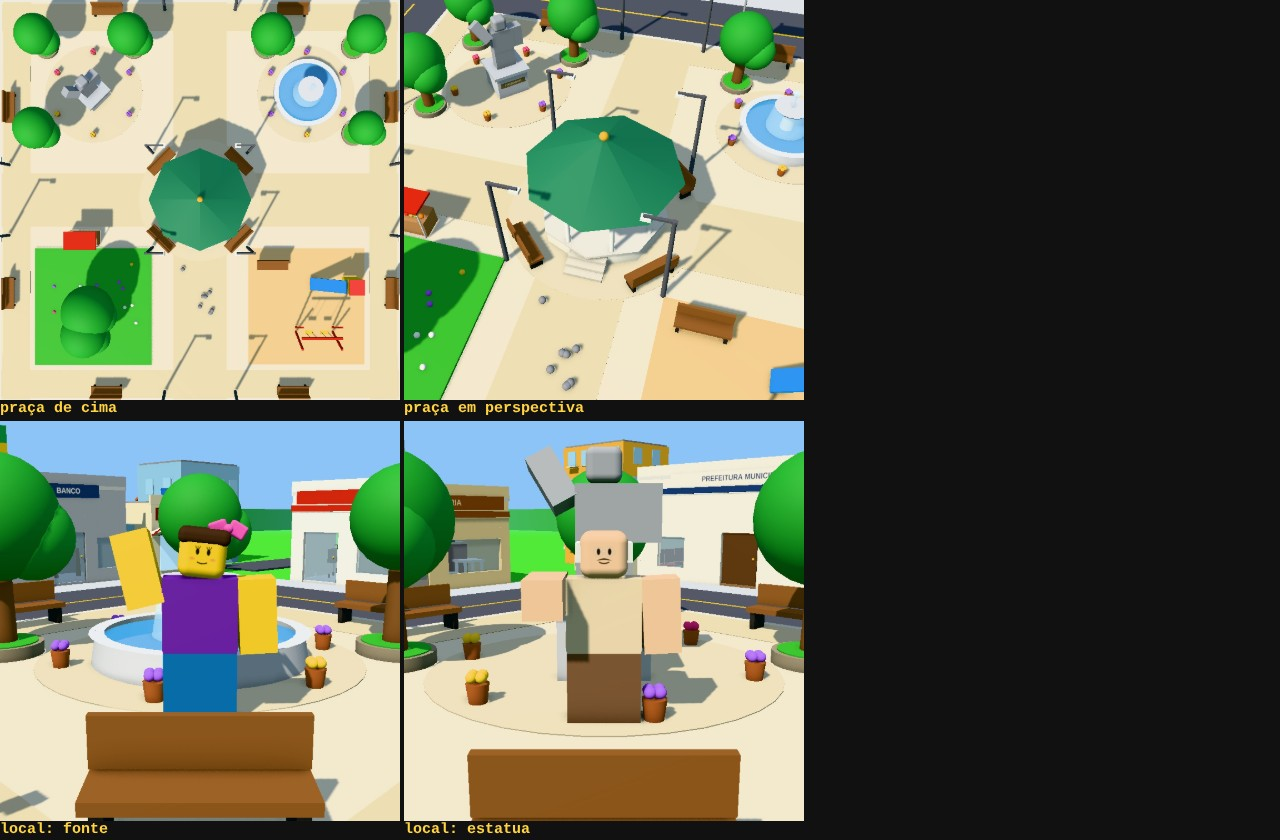
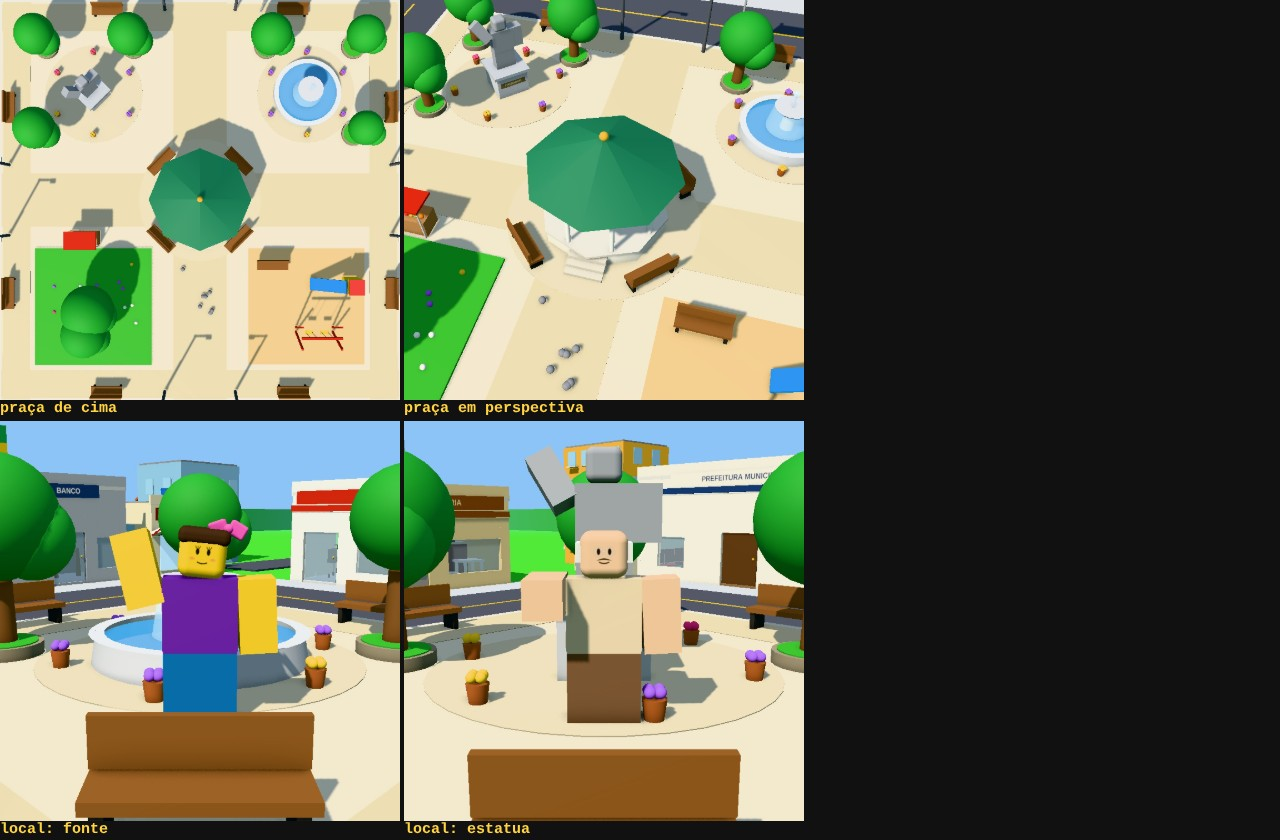
Praça: remove os 4 postes em volta do coreto
Claude-Session: https://claude.ai/code/session_01L9V3oGiK3wXogPFqZJY4DD

diff --git a/src/motor/mundo.js b/src/motor/mundo.js
@@ -220,7 +220,7 @@ function praca(g, n, r) {
   // bancos: 4 em volta do coreto (nas diagonais, virados para ele) + 8 na calçada interna (virados para o centro)
   for (let k = 0; k < 4; k++) { const ang = (45 + k * 90) * RAD; por(g, 'banco', {}, [Math.sin(ang) * 7.0, 0.45, Math.cos(ang) * 7.0], ang / RAD + 180); }
   for (const s2 of [-1, 1]) for (const t of [-12, 12]) { por(g, 'banco', {}, [t, 0.45, s2 * 24.6], s2 > 0 ? 180 : 0); por(g, 'banco', {}, [s2 * 24.6, 0.45, t], s2 > 0 ? -90 : 90); }
-  for (const [x, z] of [[-4.6, 25], [4.6, 25], [-4.6, -25], [4.6, -25], [25, 4.6], [25, -4.6], [-25, 4.6], [-25, -4.6], [-6.2, 6.2], [6.2, 6.2], [-6.2, -6.2], [6.2, -6.2]])
+  for (const [x, z] of [[-4.6, 25], [4.6, 25], [-4.6, -25], [4.6, -25], [25, 4.6], [25, -4.6], [-25, 4.6], [-25, -4.6]])
     por(g, 'poste', { noite: n }, [x, 0.45, z], x < 0 ? 0 : 180);
   por(g, 'barraca', { cor: '#c4281c' }, [-15, 0.45, 4.9], 0, 0.75); por(g, 'bandeira', {}, [8, 0.45, -24.8]);
   for (let i = 0; i < 8; i++) g.add(esfera(0.28, '#8d8f99', { pos: [r.entre(-2.5, 2.5), 0.75, r.entre(9, 16)] }));
